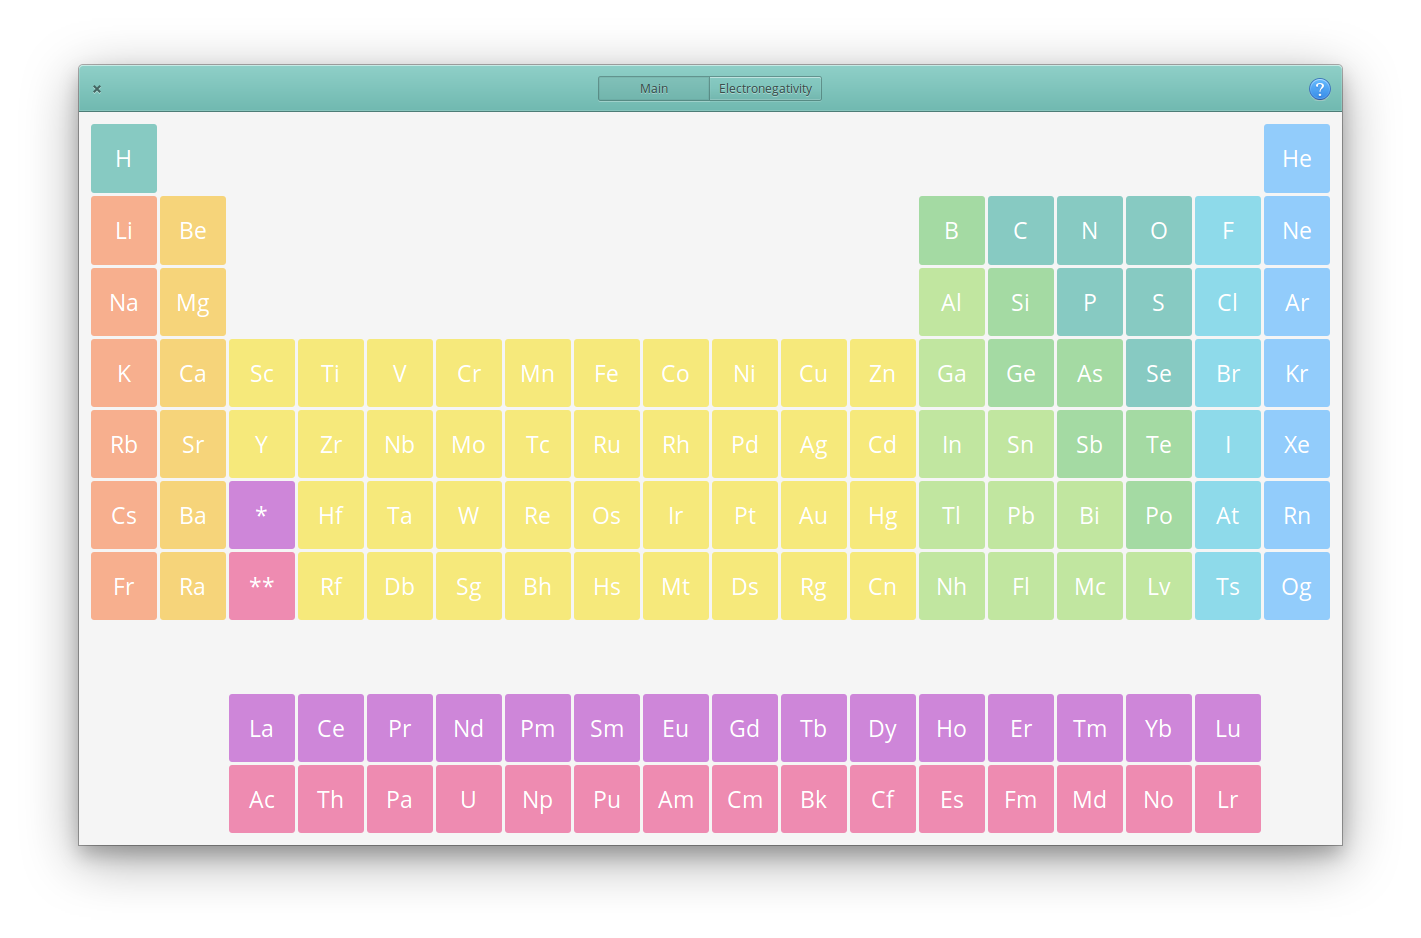
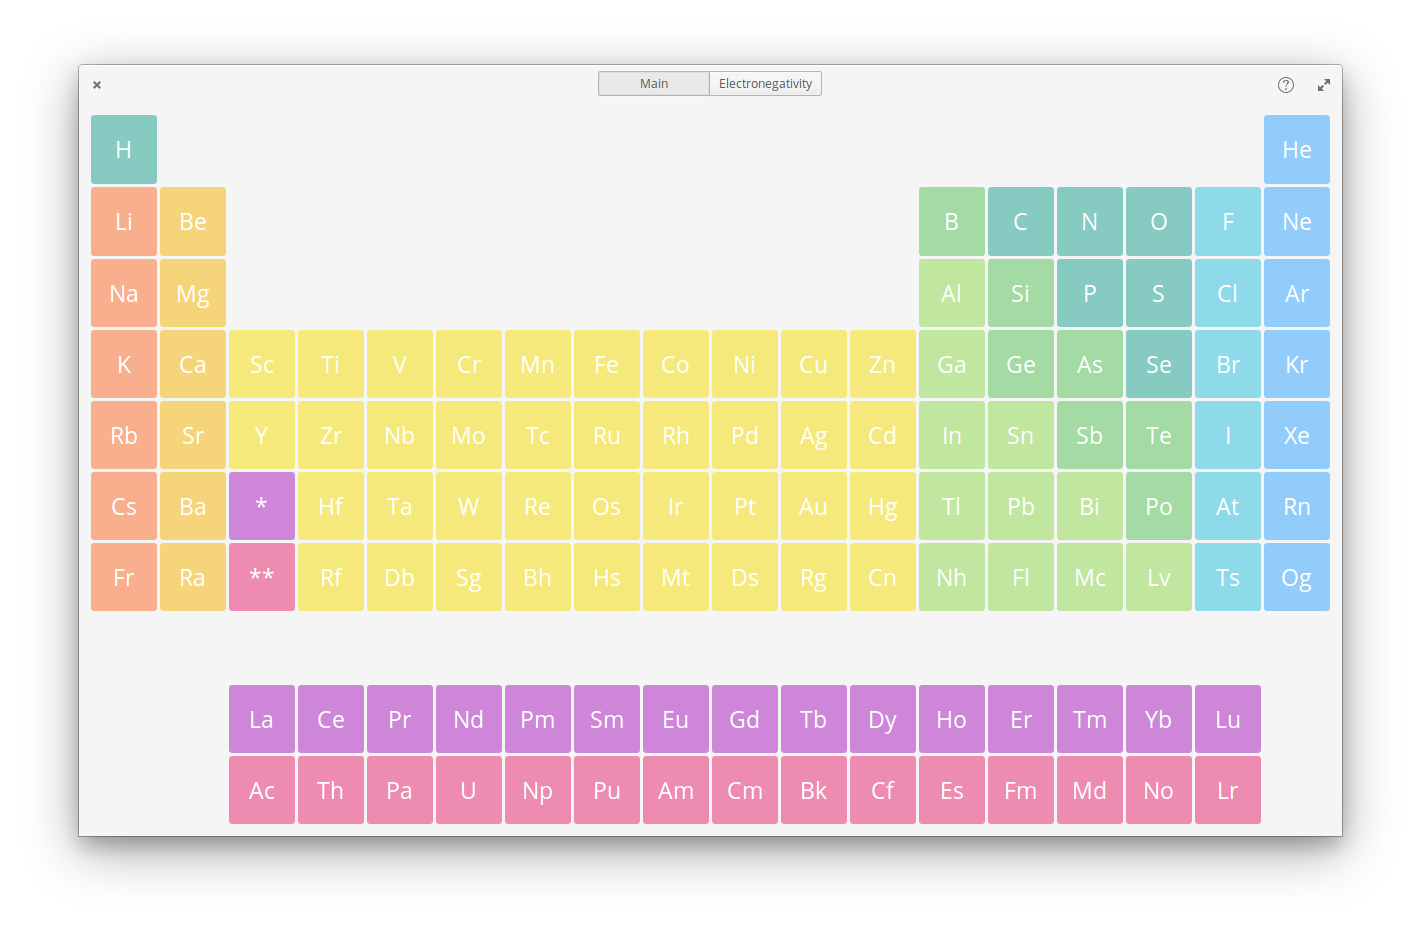
Lithium release is coming

diff --git a/data/application.css b/data/application.css
@@ -19,6 +19,8 @@
 * Authored by: eudaldgr <eudaldgr@posteo.net>
 */
 
+/*With Buttons => padding : 15px 10px;*/
+
 /***************
  *    Main     *
  **************/
@@ -28,7 +30,7 @@
     font-size : 17px;
     color : white;
     border-radius : 3px;
-    padding : 15px 10px;
+    padding : 15px 15px;
     background : rgba(247, 175, 142, 1);
 }
 
@@ -37,7 +39,7 @@
     font-size : 17px;
     color : white;
     border-radius : 3px;
-    padding : 15px 10px;
+    padding : 15px 15px;
     background : rgba(246, 212, 122, 1);
 }
 
@@ -46,7 +48,7 @@
     font-size : 17px;
     color : white;
     border-radius : 3px;
-    padding : 15px 10px;
+    padding : 15px 15px;
     background : rgba(246, 233, 123, 1);
 }
 
@@ -55,7 +57,7 @@
     font-size : 17px;
     color : white;
     border-radius : 3px;
-    padding : 15px 10px;
+    padding : 15px 15px;
     background : rgba(193, 230, 160, 1);
 }
 
@@ -64,7 +66,7 @@
     font-size : 17px;
     color : white;
     border-radius : 3px;
-    padding : 15px 10px;
+    padding : 15px 15px;
     background : rgba(164, 218, 163, 1);
 }
 
@@ -73,7 +75,7 @@
     font-size : 17px;
     color : white;
     border-radius : 3px;
-    padding : 15px 10px;
+    padding : 15px 15px;
     background : rgba(135, 202, 194, 1);
 }
 
@@ -82,7 +84,7 @@
     font-size : 17px;
     color : white;
     border-radius : 3px;
-    padding : 15px 10px;
+    padding : 15px 15px;
     background : rgba(142, 218, 234, 1);
 }
 
@@ -91,7 +93,7 @@
     font-size : 17px;
     color : white;
     border-radius : 3px;
-    padding : 15px 10px;
+    padding : 15px 15px;
     background : rgba(146, 204, 251, 1);
 }
 
@@ -100,7 +102,7 @@
     font-size : 17px;
     color : white;
     border-radius : 3px;
-    padding : 15px 10px;
+    padding : 15px 15px;
     background : rgba(206, 134, 217, 1);
 }
 
@@ -109,7 +111,7 @@
     font-size : 17px;
     color : white;
     border-radius : 3px;
-    padding : 15px 10px;
+    padding : 15px 15px;
     background : rgba(238, 139, 177, 1);
 }
 
@@ -118,7 +120,7 @@
     font-size : 17px;
     color : white;
     border-radius : 3px;
-    padding : 15px 10px;
+    padding : 15px 15px;
     background : rgba(184, 202, 212, 1);
 }
 
@@ -131,7 +133,7 @@
     font-size : 17px;
     color : white;
     border-radius : 3px;
-    padding : 15px 10px;
+    padding : 15px 15px;
     background : rgba(149, 163, 171, 1);
 }
 
@@ -140,7 +142,7 @@
     font-size : 17px;
     color : white;
     border-radius : 3px;
-    padding : 15px 10px;
+    padding : 15px 15px;
     background : rgba(247, 196, 31, 1);
 }
 
@@ -149,7 +151,7 @@
     font-size : 17px;
     color : white;
     border-radius : 3px;
-    padding : 15px 10px;
+    padding : 15px 15px;
     background : rgba(255, 179, 0, 1);
 }
 
@@ -158,7 +160,7 @@
     font-size : 17px;
     color : white;
     border-radius : 3px;
-    padding : 15px 10px;
+    padding : 15px 15px;
     background : rgba(255, 136, 0, 1);
 }
 
@@ -167,7 +169,7 @@
     font-size : 17px;
     color : white;
     border-radius : 3px;
-    padding : 15px 10px;
+    padding : 15px 15px;
     background : rgba(245, 6, 29, 1);
 }
 
@@ -176,7 +178,7 @@
     font-size : 17px;
     color : white;
     border-radius : 3px;
-    padding : 15px 10px;
+    padding : 15px 15px;
     background : rgba(192, 1, 42, 1);
 }
 
@@ -185,6 +187,6 @@
     font-size : 17px;
     color : white;
     border-radius : 3px;
-    padding : 15px 10px;
+    padding : 15px 15px;
     background : rgba(148, 5, 51, 1);
 }

diff --git a/README.md b/README.md
@@ -1,5 +1,5 @@
 <p align="center">
-  <img src="https://github.com/eudaldgr/elements/blob/master/data/icons/128/com.github.eudaldgr.elements.svg" alt="Icon" />
+  <img src="https://github.com/freeeradicals/elements/blob/master/data/icons/128/com.github.freeeradicals.elements.svg" alt="Icon" />
 </p>
 
 <h1 align="center">Elements</h1>
@@ -15,18 +15,18 @@
 
 <p align="center">
     <img
-    src="https://raw.githubusercontent.com/eudaldgr/elements/master/data/screenshots/Screenshot1.png" />
+    src="https://raw.githubusercontent.com/freeeradicals/elements/master/data/screenshots/Screenshot1.png" />
 </p>
 
 <p align="center">
     <img
-    src="https://raw.githubusercontent.com/eudaldgr/elements/master/data/screenshots/Screenshot2.png" />
+    src="https://raw.githubusercontent.com/freeeradicals/elements/master/data/screenshots/Screenshot2.png" />
 </p>
 
 ## Installation
 
 <p align="center">
-  <a href="https://appcenter.elementary.io/com.github.eudaldgr.elements"><img src="https://appcenter.elementary.io/badge.svg?new" alt="Get it on AppCenter" /></a>
+  <a href="https://appcenter.elementary.io/com.github.freeeradicals.elements"><img src="https://appcenter.elementary.io/badge.svg?new" alt="Get it on AppCenter" /></a>
 </p>
 
 ### Dependencies
@@ -47,12 +47,12 @@ sudo apt install valac libgtk-3-dev libglib2.0-dev libgranite-dev meson
 ### Building
 
 ```
-git clone https://github.com/eudaldgr/elements.git
+git clone https://github.com/freeeradicals/elements.git
 meson build && cd build
 meson configure -Dprefix=/usr
 ninja
 sudo ninja install
-com.github.eudaldgr.elements
+com.github.freeeradicals.elements
 ```
 
 ### Deconstruct
